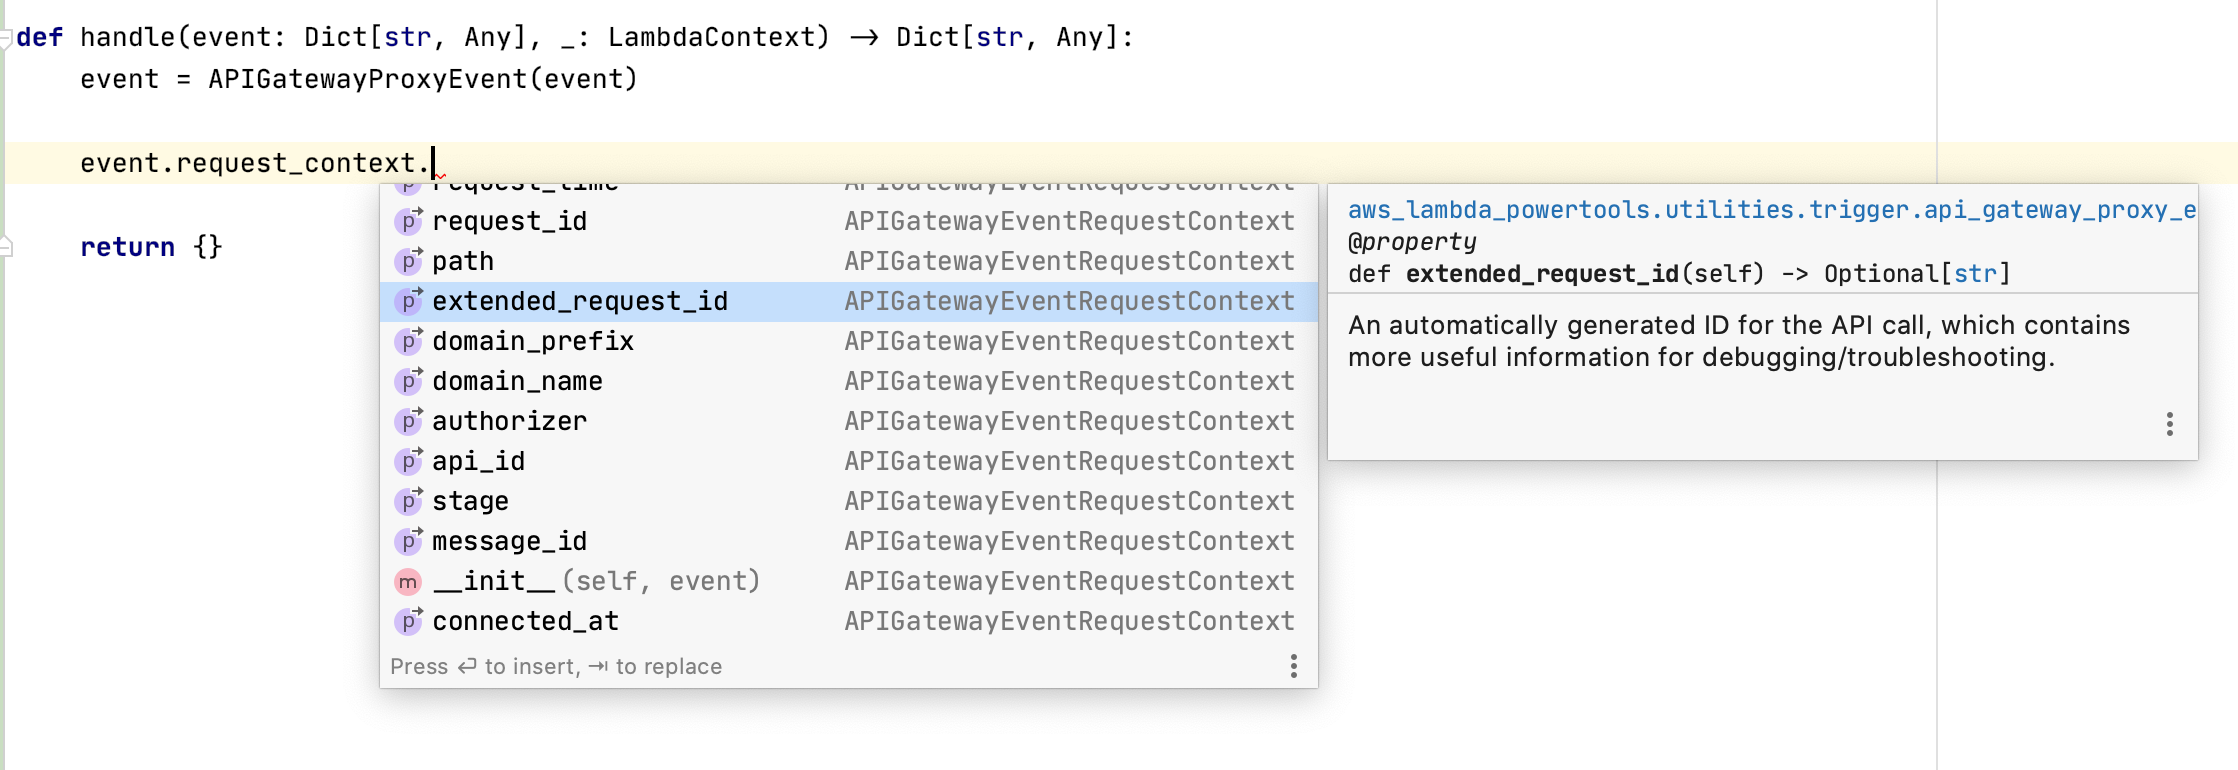
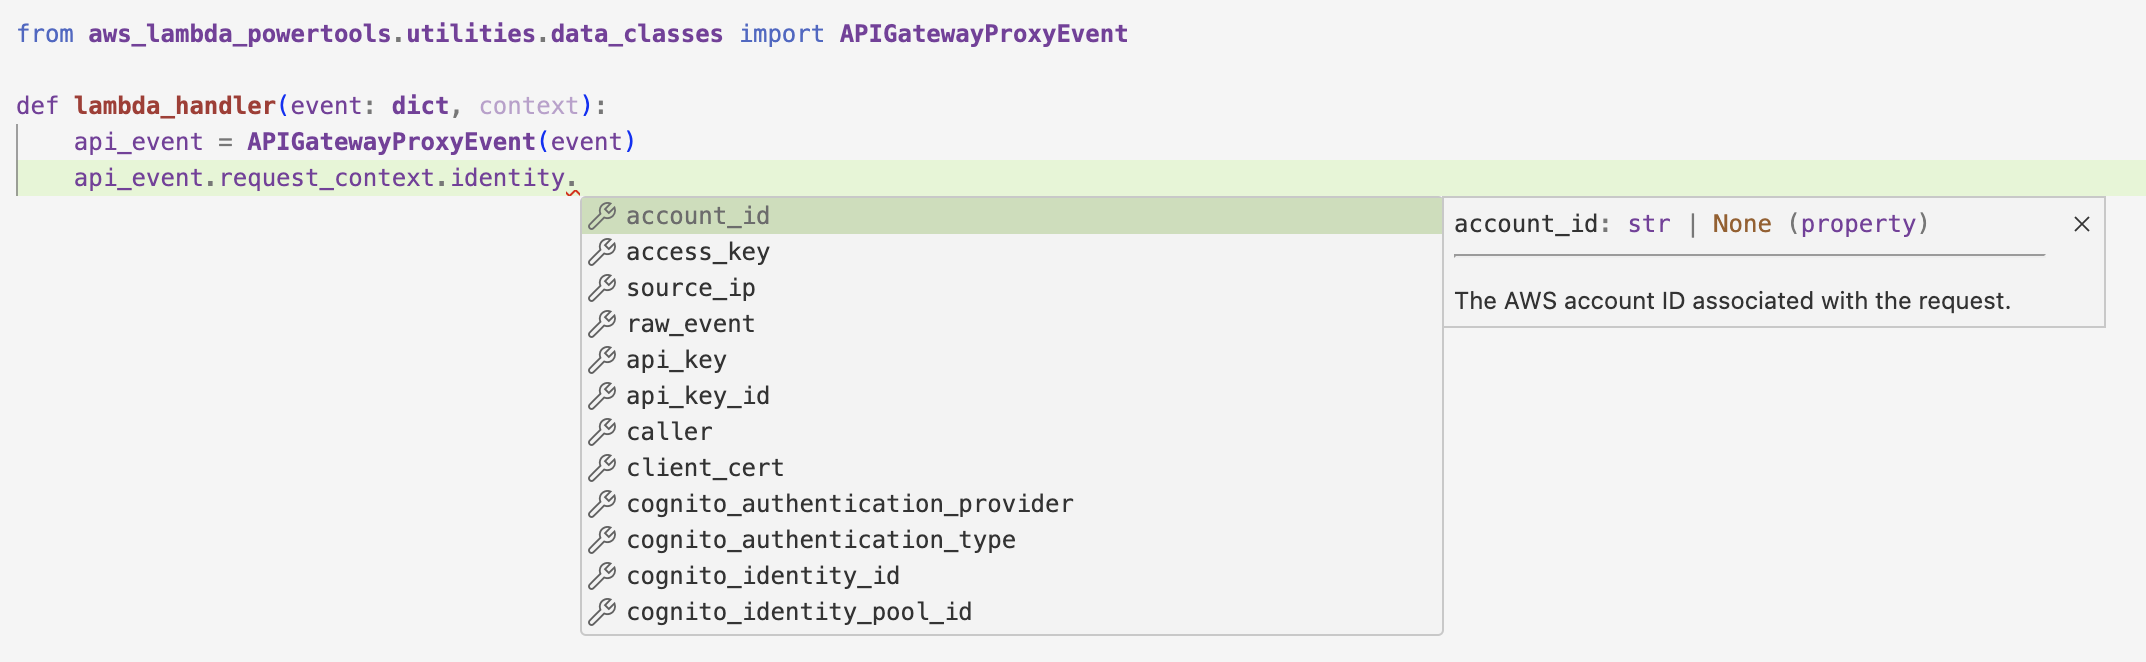
rewrite data classes docs

Changed region(s): [[0.0, 0.1208, 1.0, 0.9668], [0.0, 0.0302, 0.5308, 0.1208]]

diff --git a/docs/utilities/data_classes.md b/docs/utilities/data_classes.md
@@ -5,115 +5,105 @@ description: Utility
 
 <!-- markdownlint-disable MD043 -->
 
-Event Source Data Classes utility provides classes self-describing Lambda event sources.
+Event Source Data Classes provides self-describing and strongly-typed classes for various AWS Lambda event sources.
 
 ## Key features
 
 * Type hinting and code completion for common event types
 * Helper functions for decoding/deserializing nested fields
 * Docstrings for fields contained in event schemas
-
-**Background**
-
-When authoring Lambda functions, you often need to understand the schema of the event dictionary which is passed to the
-handler. There are several common event types which follow a specific schema, depending on the service triggering the
-Lambda function.
+* Standardized attribute-based access to event properties
 
 ## Getting started
 
-### Utilizing the data classes
+???+ tip
+    All examples shared in this documentation are available within the [project repository](https://github.com/aws-powertools/powertools-lambda-python/tree/develop/examples){target="_blank"}.
 
-The classes are initialized by passing in the Lambda event object into the constructor of the appropriate data class or
-by using the `event_source` decorator.
+There are two ways to use Event Source Data Classes in your Lambda functions.
 
-For example, if your Lambda function is being triggered by an API Gateway proxy integration, you can use the
-`APIGatewayProxyEvent` class.
+**Method 1: Direct Initialization**
 
-=== "app.py"
+You can initialize the appropriate data class by passing the Lambda event object to its constructor.
+
+=== "getting_started_data_classes.py"
 
     ```python hl_lines="1 4"
-    from aws_lambda_powertools.utilities.data_classes import APIGatewayProxyEvent
-
-    def lambda_handler(event: dict, context):
-        event = APIGatewayProxyEvent(event)
-        if 'helloworld' in event.path and event.http_method == 'GET':
-            do_something_with(event.body, user)
+    --8<-- "examples/event_sources/src/getting_started_data_classes.py"
     ```
 
-Same example as above, but using the `event_source` decorator
+=== "apigw_event.json"
 
-=== "app.py"
+    ```json hl_lines="3-4"
+    --8<-- "examples/event_sources/events/apigw_event.json"
+    ```
+
+**Method 2: Using the event_source Decorator**
+
+Alternatively, you can use the `event_source` decorator to automatically parse the event.
+
+=== "getting_started_data_classes_decorator.py"
 
     ```python hl_lines="1 3"
-    from aws_lambda_powertools.utilities.data_classes import event_source, APIGatewayProxyEvent
-
-    @event_source(data_class=APIGatewayProxyEvent)
-    def lambda_handler(event: APIGatewayProxyEvent, context):
-        if 'helloworld' in event.path and event.http_method == 'GET':
-            do_something_with(event.body, user)
+    --8<-- "examples/event_sources/src/getting_started_data_classes_decorator.py"
     ```
 
-Log Data Event for Troubleshooting
+=== "apigw_event.json"
 
-=== "app.py"
-
-    ```python hl_lines="4 8"
-    from aws_lambda_powertools.utilities.data_classes import event_source, APIGatewayProxyEvent
-    from aws_lambda_powertools.logging.logger import Logger
-
-    logger = Logger(service="hello_logs", level="DEBUG")
-
-    @event_source(data_class=APIGatewayProxyEvent)
-    def lambda_handler(event: APIGatewayProxyEvent, context):
-        logger.debug(event)
+    ```json hl_lines="3-4"
+    --8<-- "examples/event_sources/events/apigw_event.json"
     ```
 
-**Autocomplete with self-documented properties and methods**
+### Autocomplete with self-documented properties and methods
+
+Event Source Data Classes has the ability to leverage IDE autocompletion and inline documentation.
+When using the APIGatewayProxyEvent class, for example, the IDE will offer autocomplete suggestions for various properties and methods.
 
 ![Utilities Data Classes](../media/utilities_data_classes.png)
 
 ## Supported event sources
 
-| Event Source                                                                  | Data_class                                         |
-|-------------------------------------------------------------------------------|----------------------------------------------------|
-| [Active MQ](#active-mq)                                                       | `ActiveMQEvent`                                    |
-| [API Gateway Authorizer](#api-gateway-authorizer)                             | `APIGatewayAuthorizerRequestEvent`                 |
-| [API Gateway Authorizer V2](#api-gateway-authorizer-v2)                       | `APIGatewayAuthorizerEventV2`                      |
-| [API Gateway Proxy](#api-gateway-proxy)                                       | `APIGatewayProxyEvent`                             |
-| [API Gateway Proxy V2](#api-gateway-proxy-v2)                                 | `APIGatewayProxyEventV2`                           |
-| [Application Load Balancer](#application-load-balancer)                       | `ALBEvent`                                         |
-| [AppSync Authorizer](#appsync-authorizer)                                     | `AppSyncAuthorizerEvent`                           |
-| [AppSync Resolver](#appsync-resolver)                                         | `AppSyncResolverEvent`                             |
-| [AWS Config Rule](#aws-config-rule)                                           | `AWSConfigRuleEvent`                               |
-| [Bedrock Agent](#bedrock-agent)                                               | `BedrockAgent`                                     |
-| [CloudFormation Custom Resource](#cloudformation-custom-resource)             | `CloudFormationCustomResourceEvent`                |
-| [CloudWatch Alarm State Change Action](#cloudwatch-alarm-state-change-action) | `CloudWatchAlarmEvent`                             |
-| [CloudWatch Dashboard Custom Widget](#cloudwatch-dashboard-custom-widget)     | `CloudWatchDashboardCustomWidgetEvent`             |
-| [CloudWatch Logs](#cloudwatch-logs)                                           | `CloudWatchLogsEvent`                              |
-| [CodeDeploy Lifecycle Hook](#codedeploy-lifecycle-hook)                       | `CodeDeployLifecycleHookEvent`                     |
-| [CodePipeline Job Event](#codepipeline-job)                                   | `CodePipelineJobEvent`                             |
-| [Cognito User Pool](#cognito-user-pool)                                       | Multiple available under `cognito_user_pool_event` |
-| [Connect Contact Flow](#connect-contact-flow)                                 | `ConnectContactFlowEvent`                          |
-| [DynamoDB streams](#dynamodb-streams)                                         | `DynamoDBStreamEvent`, `DynamoDBRecordEventName`   |
-| [EventBridge](#eventbridge)                                                   | `EventBridgeEvent`                                 |
-| [Kafka](#kafka)                                                               | `KafkaEvent`                                       |
-| [Kinesis Data Stream](#kinesis-streams)                                       | `KinesisStreamEvent`                               |
-| [Kinesis Firehose Delivery Stream](#kinesis-firehose-delivery-stream)         | `KinesisFirehoseEvent`                             |
-| [Lambda Function URL](#lambda-function-url)                                   | `LambdaFunctionUrlEvent`                           |
-| [Rabbit MQ](#rabbit-mq)                                                       | `RabbitMQEvent`                                    |
-| [S3](#s3)                                                                     | `S3Event`                                          |
-| [S3 Batch Operations](#s3-batch-operations)                                   | `S3BatchOperationEvent`                            |
-| [S3 Object Lambda](#s3-object-lambda)                                         | `S3ObjectLambdaEvent`                              |
-| [S3 EventBridge Notification](#s3-eventbridge-notification)                   | `S3EventBridgeNotificationEvent`                   |
-| [SES](#ses)                                                                   | `SESEvent`                                         |
-| [SNS](#sns)                                                                   | `SNSEvent`                                         |
-| [SQS](#sqs)                                                                   | `SQSEvent`                                         |
-| [VPC Lattice V2](#vpc-lattice-v2)                                             | `VPCLatticeV2Event`                                |
-| [VPC Lattice V1](#vpc-lattice-v1)                                             | `VPCLatticeEvent`                                  |
+Each event source is linked to its corresponding GitHub file with the full set of properties, methods, and docstrings specific to each event type.
+
+| Event Source | Data_class | Properties |
+|--------------|------------|------------|
+| [Active MQ](#active-mq) | `ActiveMQEvent` | [Github](https://github.com/aws-powertools/powertools-lambda-python/blob/develop/aws_lambda_powertools/utilities/data_classes/active_mq_event.py) |
+| [API Gateway Authorizer](#api-gateway-authorizer) | `APIGatewayAuthorizerRequestEvent` | [Github](https://github.com/aws-powertools/powertools-lambda-python/blob/develop/aws_lambda_powertools/utilities/data_classes/api_gateway_authorizer_event.py) |
+| [API Gateway Authorizer V2](#api-gateway-authorizer-v2) | `APIGatewayAuthorizerEventV2` | [Github](https://github.com/aws-powertools/powertools-lambda-python/blob/develop/aws_lambda_powertools/utilities/data_classes/api_gateway_authorizer_event.py) |
+| [API Gateway Proxy](#api-gateway-proxy) | `APIGatewayProxyEvent` | [Github](https://github.com/aws-powertools/powertools-lambda-python/blob/develop/aws_lambda_powertools/utilities/data_classes/api_gateway_proxy_event.py) |
+| [API Gateway Proxy V2](#api-gateway-proxy-v2) | `APIGatewayProxyEventV2` | [Github](https://github.com/aws-powertools/powertools-lambda-python/blob/develop/aws_lambda_powertools/utilities/data_classes/api_gateway_proxy_event.py) |
+| [Application Load Balancer](#application-load-balancer) | `ALBEvent` | [Github](https://github.com/aws-powertools/powertools-lambda-python/blob/develop/aws_lambda_powertools/utilities/data_classes/alb_event.py) |
+| [AppSync Authorizer](#appsync-authorizer) | `AppSyncAuthorizerEvent` | [Github](https://github.com/aws-powertools/powertools-lambda-python/blob/develop/aws_lambda_powertools/utilities/data_classes/appsync_authorizer_event.py) |
+| [AppSync Resolver](#appsync-resolver) | `AppSyncResolverEvent` | [Github](https://github.com/aws-powertools/powertools-lambda-python/blob/develop/aws_lambda_powertools/utilities/data_classes/appsync_resolver_event.py) |
+| [AWS Config Rule](#aws-config-rule) | `AWSConfigRuleEvent` | [Github](https://github.com/aws-powertools/powertools-lambda-python/blob/develop/aws_lambda_powertools/utilities/data_classes/aws_config_rule_event.py) |
+| [Bedrock Agent](#bedrock-agent) | `BedrockAgent` | [Github](https://github.com/aws-powertools/powertools-lambda-python/blob/develop/aws_lambda_powertools/utilities/data_classes/bedrock_agent_event.py) |
+| [CloudFormation Custom Resource](#cloudformation-custom-resource) | `CloudFormationCustomResourceEvent` | [Github](https://github.com/aws-powertools/powertools-lambda-python/blob/develop/aws_lambda_powertools/utilities/data_classes/cloudformation_custom_resource_event.py) |
+| [CloudWatch Alarm State Change Action](#cloudwatch-alarm-state-change-action) | `CloudWatchAlarmEvent` | [Github](https://github.com/aws-powertools/powertools-lambda-python/blob/develop/aws_lambda_powertools/utilities/data_classes/cloud_watch_alarm_event.py) |
+| [CloudWatch Dashboard Custom Widget](#cloudwatch-dashboard-custom-widget) | `CloudWatchDashboardCustomWidgetEvent` | [Github](https://github.com/aws-powertools/powertools-lambda-python/blob/develop/aws_lambda_powertools/utilities/data_classes/cloud_watch_custom_widget_event.py) |
+| [CloudWatch Logs](#cloudwatch-logs) | `CloudWatchLogsEvent` | [Github](https://github.com/aws-powertools/powertools-lambda-python/blob/develop/aws_lambda_powertools/utilities/data_classes/cloud_watch_logs_event.py) |
+| [CodeDeploy Lifecycle Hook](#codedeploy-lifecycle-hook) | `CodeDeployLifecycleHookEvent` | [Github](https://github.com/aws-powertools/powertools-lambda-python/blob/develop/aws_lambda_powertools/utilities/data_classes/code_deploy_lifecycle_hook_event.py) |
+| [CodePipeline Job Event](#codepipeline-job) | `CodePipelineJobEvent` | [Github](https://github.com/aws-powertools/powertools-lambda-python/blob/develop/aws_lambda_powertools/utilities/data_classes/code_pipeline_job_event.py) |
+| [Cognito User Pool](#cognito-user-pool) | Multiple available under `cognito_user_pool_event` | [Github](https://github.com/aws-powertools/powertools-lambda-python/blob/develop/aws_lambda_powertools/utilities/data_classes/cognito_user_pool_event.py) |
+| [Connect Contact Flow](#connect-contact-flow) | `ConnectContactFlowEvent` | [Github](https://github.com/aws-powertools/powertools-lambda-python/blob/develop/aws_lambda_powertools/utilities/data_classes/connect_contact_flow_event.py) |
+| [DynamoDB streams](#dynamodb-streams) | `DynamoDBStreamEvent`, `DynamoDBRecordEventName` | [Github](https://github.com/aws-powertools/powertools-lambda-python/blob/develop/aws_lambda_powertools/utilities/data_classes/dynamo_db_stream_event.py) |
+| [EventBridge](#eventbridge) | `EventBridgeEvent` | [Github](https://github.com/aws-powertools/powertools-lambda-python/blob/develop/aws_lambda_powertools/utilities/data_classes/event_bridge_event.py) |
+| [Kafka](#kafka) | `KafkaEvent` | [Github](https://github.com/aws-powertools/powertools-lambda-python/blob/develop/aws_lambda_powertools/utilities/data_classes/kafka_event.py) |
+| [Kinesis Data Stream](#kinesis-streams) | `KinesisStreamEvent` | [Github](https://github.com/aws-powertools/powertools-lambda-python/blob/develop/aws_lambda_powertools/utilities/data_classes/kinesis_stream_event.py) |
+| [Kinesis Firehose Delivery Stream](#kinesis-firehose-delivery-stream) | `KinesisFirehoseEvent` | [Github](https://github.com/aws-powertools/powertools-lambda-python/blob/develop/aws_lambda_powertools/utilities/data_classes/kinesis_firehose_event.py) |
+| [Lambda Function URL](#lambda-function-url) | `LambdaFunctionUrlEvent` | [Github](https://github.com/aws-powertools/powertools-lambda-python/blob/develop/aws_lambda_powertools/utilities/data_classes/lambda_function_url_event.py) |
+| [Rabbit MQ](#rabbit-mq) | `RabbitMQEvent` | [Github](https://github.com/aws-powertools/powertools-lambda-python/blob/develop/aws_lambda_powertools/utilities/data_classes/rabbit_mq_event.py) |
+| [S3](#s3) | `S3Event` | [Github](https://github.com/aws-powertools/powertools-lambda-python/blob/develop/aws_lambda_powertools/utilities/data_classes/s3_event.py) |
+| [S3 Batch Operations](#s3-batch-operations) | `S3BatchOperationEvent` | [Github](https://github.com/aws-powertools/powertools-lambda-python/blob/develop/aws_lambda_powertools/utilities/data_classes/s3_batch_operation_event.py) |
+| [S3 Object Lambda](#s3-object-lambda) | `S3ObjectLambdaEvent` | [Github](https://github.com/aws-powertools/powertools-lambda-python/blob/develop/aws_lambda_powertools/utilities/data_classes/s3_object_event.py) |
+| [S3 EventBridge Notification](#s3-eventbridge-notification) | `S3EventBridgeNotificationEvent` | [Github](https://github.com/aws-powertools/powertools-lambda-python/blob/develop/aws_lambda_powertools/utilities/data_classes/s3_event.py) |
+| [SES](#ses) | `SESEvent` | [Github](https://github.com/aws-powertools/powertools-lambda-python/blob/develop/aws_lambda_powertools/utilities/data_classes/ses_event.py) |
+| [SNS](#sns) | `SNSEvent` | [Github](https://github.com/aws-powertools/powertools-lambda-python/blob/develop/aws_lambda_powertools/utilities/data_classes/sns_event.py) |
+| [SQS](#sqs) | `SQSEvent` | [Github](https://github.com/aws-powertools/powertools-lambda-python/blob/develop/aws_lambda_powertools/utilities/data_classes/sqs_event.py) |
+| [VPC Lattice V2](#vpc-lattice-v2) | `VPCLatticeV2Event` | [Github](https://github.com/aws-powertools/powertools-lambda-python/blob/develop/aws_lambda_powertools/utilities/data_classes/vpc_lattice.py) |
+| [VPC Lattice V1](#vpc-lattice-v1) | `VPCLatticeEvent` | [Github](https://github.com/aws-powertools/powertools-lambda-python/blob/develop/aws_lambda_powertools/utilities/data_classes/vpc_lattice.py) |
 
 ???+ info
-    The examples provided below are far from exhaustive - the data classes themselves are designed to provide a form of
-    documentation inherently (via autocompletion, types and docstrings).
+    The examples showcase a subset of Event Source Data Classes capabilities - for comprehensive details, leverage your IDE's
+    autocompletion, refer to type hints and docstrings, and explore the [full API reference](https://docs.powertools.aws.dev/lambda/python/latest/api/utilities/data_classes/) for complete property listings of each event source.
 
 ### Active MQ
 
@@ -121,119 +111,46 @@ It is used for [Active MQ payloads](https://docs.aws.amazon.com/lambda/latest/dg
 the [AWS blog post](https://aws.amazon.com/blogs/compute/using-amazon-mq-as-an-event-source-for-aws-lambda/){target="_blank"}
 for more details.
 
-=== "app.py"
+=== "active_mq_example.py"
 
-    ```python hl_lines="4-5 9-10"
-    from typing import Dict
+    ```python hl_lines="2 8"
+    --8<-- "examples/event_sources/src/active_mq_example.py"
+    ```
 
-    from aws_lambda_powertools import Logger
-    from aws_lambda_powertools.utilities.data_classes import event_source
-    from aws_lambda_powertools.utilities.data_classes.active_mq_event import ActiveMQEvent
+=== "active_mq_event.json"
 
-    logger = Logger()
-
-    @event_source(data_class=ActiveMQEvent)
-    def lambda_handler(event: ActiveMQEvent, context):
-        for message in event.messages:
-            logger.debug(f"MessageID: {message.message_id}")
-            data: Dict = message.json_data
-            logger.debug("Process json in base64 encoded data str", data)
+    ```json hl_lines="6 9 18 21"
+    --8<-- "examples/event_sources/events/active_mq_event_example.json"
     ```
 
 ### API Gateway Authorizer
-
-> New in 1.20.0
 
 It is used for [API Gateway Rest API Lambda Authorizer payload](https://docs.aws.amazon.com/apigateway/latest/developerguide/apigateway-use-lambda-authorizer.html){target="_blank"}.
 
 Use **`APIGatewayAuthorizerRequestEvent`** for type `REQUEST` and **`APIGatewayAuthorizerTokenEvent`** for type `TOKEN`.
 
-=== "app_type_request.py"
+=== "apigw_type_request.py"
 
-    This example uses the `APIGatewayAuthorizerResponse` to decline a given request if the user is not found.
-
-    When the user is found, it includes the user details in the request context that will be available to the back-end, and returns a full access policy for admin users.
-
-    ```python hl_lines="2-6 29 36-42 47 49"
-    from aws_lambda_powertools.utilities.data_classes import event_source
-    from aws_lambda_powertools.utilities.data_classes.api_gateway_authorizer_event import (
-        DENY_ALL_RESPONSE,
-        APIGatewayAuthorizerRequestEvent,
-        APIGatewayAuthorizerResponse,
-        HttpVerb,
-    )
-    from secrets import compare_digest
-
-
-    def get_user_by_token(token):
-        if compare_digest(token, "admin-foo"):
-            return {"id": 0, "name": "Admin", "isAdmin": True}
-        elif compare_digest(token, "regular-foo"):
-            return {"id": 1, "name": "Joe"}
-        else:
-            return None
-
-
-    @event_source(data_class=APIGatewayAuthorizerRequestEvent)
-    def handler(event: APIGatewayAuthorizerRequestEvent, context):
-        user = get_user_by_token(event.headers["Authorization"])
-
-        if user is None:
-            # No user was found
-            # to return 401 - `{"message":"Unauthorized"}`, but pollutes lambda error count metrics
-            # raise Exception("Unauthorized")
-            # to return 403 - `{"message":"Forbidden"}`
-            return DENY_ALL_RESPONSE
-
-        # parse the `methodArn` as an `APIGatewayRouteArn`
-        arn = event.parsed_arn
-
-        # Create the response builder from parts of the `methodArn`
-        # and set the logged in user id and context
-        policy = APIGatewayAuthorizerResponse(
-            principal_id=user["id"],
-            context=user,
-            region=arn.region,
-            aws_account_id=arn.aws_account_id,
-            api_id=arn.api_id,
-            stage=arn.stage,
-        )
-
-        # Conditional IAM Policy
-        if user.get("isAdmin", False):
-            policy.allow_all_routes()
-        else:
-            policy.allow_route(HttpVerb.GET.value, "/user-profile")
-
-        return policy.asdict()
+    ```python hl_lines="2-4 7"
+    --8<-- "examples/event_sources/src/apigw_authorizer_request.py"
     ```
-=== "app_type_token.py"
 
-    ```python hl_lines="2-5 12-18 21 23-24"
-    from aws_lambda_powertools.utilities.data_classes import event_source
-    from aws_lambda_powertools.utilities.data_classes.api_gateway_authorizer_event import (
-        APIGatewayAuthorizerTokenEvent,
-        APIGatewayAuthorizerResponse,
-    )
+=== "apiGatewayAuthorizerRequestEvent.json"
 
+    ```json hl_lines="11"
+    --8<-- "examples/event_sources/events/apiGatewayAuthorizerRequestEvent.json"
+    ```
 
-    @event_source(data_class=APIGatewayAuthorizerTokenEvent)
-    def handler(event: APIGatewayAuthorizerTokenEvent, context):
-        arn = event.parsed_arn
+=== "apigw_type_token.py"
 
-        policy = APIGatewayAuthorizerResponse(
-            principal_id="user",
-            region=arn.region,
-            aws_account_id=arn.aws_account_id,
-            api_id=arn.api_id,
-            stage=arn.stage
-        )
+    ```python hl_lines="2 8"
+    --8<-- "examples/event_sources/src/apigw_authorizer_token.py"
+    ```
 
-        if event.authorization_token == "42":
-            policy.allow_all_routes()
-        else:
-            policy.deny_all_routes()
-        return policy.asdict()
+=== "apiGatewayAuthorizerTokentEvent.json"
+
+    ```json hl_lines="6 9 18 21"
+    --8<-- "examples/event_sources/events/apiGatewayAuthorizerTokenEvent.json"
     ```
 
 ### API Gateway Authorizer V2
